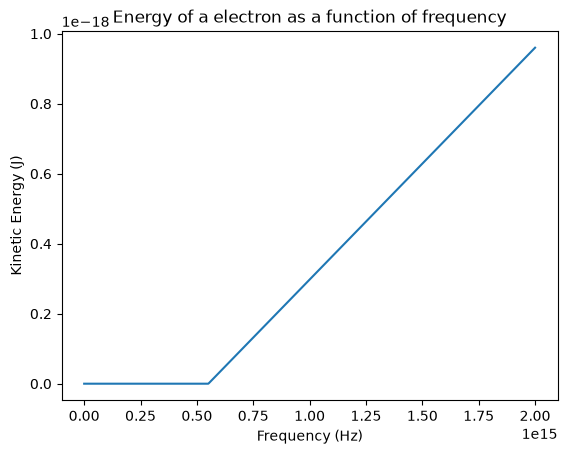
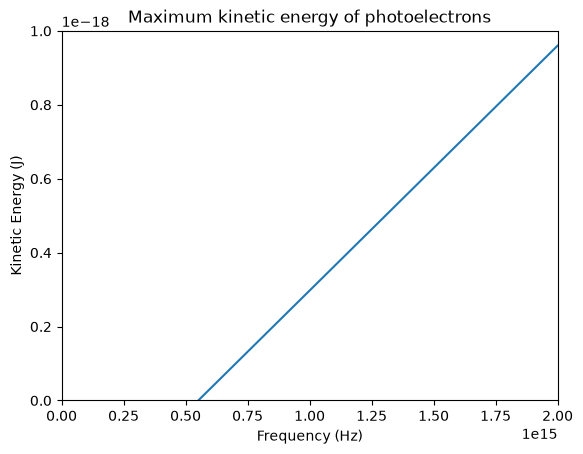
Update 01-02

diff --git a/pages/01-02-photoelectric-effect.md b/pages/01-02-photoelectric-effect.md
@@ -4,14 +4,14 @@
 
 ## 광전 효과
 
-1887년에 독일의 물리학자 헤르츠는 전자기파에 대한 실험을 하던 중, 전극 표면에 자외선을 비추면 전극 사이에 불꽃이 더 잘 발생한다는 것을 발견했습니다. 이 현상을 **광전 효과(photoelectric effect)**라고 하는데요, 이 때에는 왜 이런 일이 일어나는지는 아무도 몰랐습니다. 시간이 흐르고 1897년에 영국의 물리학자 톰슨이 진공관 실험을 통해 음의 전하를 띠는 '전자'라는 입자가 존재한다는 것을 밝히자, 사람들은 이것이 전극을 이루는 금속 표면에서 전자가 튀어나왔기 때문이라는 것을 알게 됩니다.  
+1887년에 독일의 물리학자 헤르츠는 전자기파에 대한 실험을 하던 중, 전극 표면에 자외선을 비추면 전극 사이에 불꽃이 더 잘 발생한다는 것을 발견했습니다. 이 현상을 **광전 효과(photoelectric effect)**라고 하는데요, 이때는 왜 이런 일이 일어나는지는 아무도 몰랐습니다. 시간이 흐르고 1897년에 영국의 물리학자 톰슨이 진공관 실험을 통해 음의 전하를 띠는 '전자'라는 입자가 존재한다는 것을 밝히자, 사람들은 이것이 전극을 이루는 금속 표면에서 전자가 튀어나왔기 때문이라는 것을 알게 됩니다.  
 
 ![광전 효과 실험](/assets/image-20.png)  
 [출처: https://www.physics.utoronto.ca/~phy224_324/experiments/photo-electric-effect/THE-PHOTO-ELECTRIC-EFFECT.pdf]  
 
-1900년 레나르트라는 물리학자는 실험 장비를 만들어 광전 효과에 대해 연구하고 있었습니다. 이 장비는 금속 판 두 개를 마주보게 놓고 일정한 전압을 걸어 전자의 운동을 방해하여 충분한 운동 에너지를 가진 전자만이 반대쪽 판에 도착할 수 있도록 되어있습니다.  
-그런데 무언가 이상한 것을 발견했습니다. 고전물리학에 따르면 빛은 파동이니까 진폭이 커질수록 세기가 강해져야 하는데 아무리 빛을 세게 쪼여도 **정지 전압(stopping potential)**이 증가하지 않았던 것입니다. 더 센 빛을 쪼이면 전류가 더 많이 흐르긴 했지만 정지 전압이 더 높아지지는 않았습니다. 그러니까 전자가 더 많이 튀어나오지만 튀어나온 전자의 운동 에너지는 똑같다는 뜻입니다.  
-그리고 빛이 파동이라면 금속 표면의 전자를 흔들면서 떼어내야 하기 때문에 어느 정도의 지연 시간이 있어야 할텐데 놀랍게도 빛을 쪼여주자마자 전자가 튀어나왔습니다.
+1900년 레나르트라는 물리학자는 실험 장비를 만들어 광전 효과에 대해 연구하고 있었습니다. 이 장비는 금속 판 두 개를 마주보게 놓고 일정한 전압을 걸어 전자의 운동을 방해하여 충분한 운동 에너지를 가진 전자만이 반대쪽 판에 도착할 수 있도록 되어 있습니다.  
+그런데 무언가 이상한 것을 발견했습니다. 고전물리학에 따르면 빛은 파동이니까 진폭이 커질수록 세기가 강해져야 하는데 아무리 빛을 세게 쪼여도 **정지 전압(stopping potential)**이 증가하지 않았던 것입니다. 더 센 빛을 쪼이면 전류가 더 많이 흐르긴 했지만 정지 전압이 더 높아지지는 않았습니다. 그러니까 전자가 더 많이 튀어나오지만 튀어나온 전자의 최대 운동 에너지는 똑같다는 뜻입니다.  
+그리고 빛이 파동이라면 금속 표면의 전자를 흔들면서 떼어내야 하기 때문에 어느 정도의 지연 시간이 있어야 할텐데 놀랍게도 빛을 비추자마자 전자가 튀어나왔습니다. 고전적인 파동 개념을 이용한 매우 단순한 추정을 해봅시다. 빛의 에너지가 공간에 균일하게 퍼지고, 원자 하나가 자신의 단면적에 들어오는 에너지를 계속 축적한다고 가정하겠습니다.
 ```python
 import numpy as np
 from scipy.constants import e
@@ -22,12 +22,12 @@ a_atom = np.pi * (1e-10) ** 2  # 원자 하나의 단면적
 phi = 2.28 * e  # 소듐 일함수
 
 t_wait = phi / (I * a_atom)
-print(f"파동설의 예측 = {t_wait:.0f} 초")
-print(f"실제 실험    < 1e-9 초")
+print(f"고전 모형의 예측 = {t_wait:.0f} 초")
+print(f"실제 실험       < 1e-9 초")
 ```
 ```
-파동설의 예측 = 146 초
-실제 실험    < 1e-9 초
+고전 모형의 예측 = 146 초
+실제 실험       < 1e-9 초
 ```
 
 다시 한 번 고전물리학이 설명할 수 없는 현상이 벌어졌습니다.
@@ -35,32 +35,35 @@ print(f"실제 실험    < 1e-9 초")
 
 ## 아인슈타인의 등장
 
-여기서 그 유명한 아인슈타인 선생님이 등장합니다. 아인슈타인은 우리가 1.1.에서 봤던 플랑크의 양자 가설을 가져와 이 현상을 설명하는 데에 사용합니다. $E=nh\nu$ 기억하시죠? 아인슈타인은 이 가설을 더 발전시켜 빛이 사실 $E=h\nu$의 에너지를 가지는 아주 작은 덩어리로 이루어져 있다고 생각하였습니다. 지금 우리가 **광자(photon)**라고 부르는 것이죠. 에너지는 보존되어야 하니까 튀어나온 전자의 운동 에너지와 금속에서 전자를 떼어내는 데 필요한 에너지를 합하면 쪼여준 빛의 에너지와 같다고 할 수 있겠네요. 식으로 쓰면 다음과 같습니다.
+여기서 그 유명한 아인슈타인 선생님이 등장합니다. 아인슈타인은 우리가 1.1.에서 봤던 플랑크의 양자 가설을 가져와 이 현상을 설명하는 데에 사용합니다. $E=nh\nu$ 기억하시죠? 아인슈타인은 이 가설을 더 발전시켜 빛이 사실 $E=h\nu$의 에너지를 가지는 아주 작은 덩어리로 이루어져 있다고 생각하였습니다. 지금 우리가 **광자(photon)**라고 부르는 것이죠. 에너지는 보존되어야 하니까 튀어나온 전자의 최대 운동 에너지와 금속에서 전자를 떼어내는 데 필요한 에너지를 합하면 쪼여준 빛의 에너지와 같다고 할 수 있겠네요. 식으로 쓰면 다음과 같습니다.
 
 $$
-(\text{전자의 운동 에너지}) = \frac{1}{2}mv^2 = h\nu - \phi
+(\text{전자의 최대 운동 에너지}) = \frac{1}{2}mv_{max}^2 = h\nu - \phi
 $$
 
-여기서 $\phi$는 금속에서 전자를 떼어내는 데 필요한 에너지이고, 일함수(work function)이라고 부릅니다. 전자의 운동 에너지가 음수가 될 수는 없으니 빛(광자)의 에너지는 $\phi$ 이상이 되어야겠군요. 다시 말하면, 빛의 진동수가 $\phi/h$보다 크지 않으면 전자가 튀어나오지 않습니다. 이 값을 **문턱 진동수(threshold frequency)**라고 부르고 $\nu_0$라고 씁니다. 식을 다시 쓰면 이렇게 되겠네요.
+여기서 $\phi$는 금속에서 전자를 떼어내는 데 필요한 에너지이고, 일함수(work function)이라고 부릅니다. 전자의 운동 에너지가 음수가 될 수는 없으니 빛(광자)의 에너지는 $\phi$ 이상이 되어야겠군요. 다시 말하면, 빛의 진동수가 $\phi/h$보다 작으면 전자가 튀어나오지 않습니다. 이 값을 **문턱 진동수(threshold frequency)**라고 부르고 $\nu_0$라고 씁니다. 식을 다시 쓰면 이렇게 되겠네요.
 
 $$
-(\text{전자의 운동 에너지}) = h\nu - h\nu_0
+(\text{전자의 최대 운동 에너지}) = h\nu - h\nu_0
 $$
 
-그림으로 그려보겠습니다. 소듐 금속의 경우에는 문턱 진동수가 $5.51 \times 10^{14}$ Hz로 알려져 있습니다.
+진동수가 같은 빛의 세기를 높인다는 것은 광자 하나의 에너지를 높이는 것이 아니라, 단위 시간에 도달하는 광자의 수를 늘린다는 뜻입니다. 따라서 더 많은 전자가 방출되어 전류는 커지지만, 광자 하나가 전달하는 에너지 $h\nu$는 그대로이므로 최대 운동에너지는 변하지 않습니다.  
+위 식을 그림으로 그려보겠습니다. 소듐 금속의 경우에는 문턱 진동수가 $5.51 \times 10^{14}$ Hz로 알려져 있습니다.
 ```python
 import numpy as np
 import matplotlib.pyplot as plt
 from scipy.constants import h
 
 nu = np.linspace(0, 2e15, 1000)
-ke = h * nu - h * (5.51e14)
-ke[ke < 0] = 0
+nu0 = 5.51e14
+ke = np.where(nu >= nu0, h * (nu - nu0), np.nan)
 
 plt.plot(nu, ke)
-plt.title("Energy of a electron as a function of frequency")
+plt.title("Maximum kinetic energy of photoelectrons")
 plt.xlabel("Frequency (Hz)")
 plt.ylabel("Kinetic Energy (J)")
+plt.xlim(0, 2e15)
+plt.ylim(0, 1e-18)
 plt.show()
 ```
 ![광전 효과](/assets/image-21.png)
@@ -72,7 +75,7 @@ plt.show()
 
 ## 빛, 너는 뭐냐?
 
-고전물리학에서는 빛이 파동이라고 생각했습니다. 1801년 영의 이중슬릿 실험에서 빛은 명백하게 간섭무늬를 만들었고, 간섭은 파동만의 특징이니까요. 맥스웰은 빛이 전자기파라는 것까지 밝혀내었습니다.  
+고전물리학에서는 빛이 파동이라고 생각했습니다. 1801년 영의 이중슬릿 실험에서 빛은 명백하게 간섭무늬를 만들었고, 간섭은 파동의 대표적인 특징이라고 생각했으니까요. 또한 맥스웰의 이론은 빛이 전자기파임을 보여주었습니다.  
 그런데 광전효과는 빛이 입자라고 생각해야 설명할 수 있었습니다. 그러면 대체 빛은 파동인가요 입자인가요?  
 정답은 둘 다 맞고 둘 다 아니다 입니다. *이게 뭔 소리람?* 그러니까 빛은 이중슬릿 실험에서는 파동처럼 간섭 현상을 일으키고, 금속에 비추면 입자처럼 전자를 하나씩 떼어냅니다. 이것을 빛의 **이중성(wave-particle duality)**라고 합니다.  
 이렇게 설명하면 빛이 어떨 때는 파동이고 어떨 때는 입자다 라고 생각하실 수도 있는데 정확히 말하면 빛은 둘 다 아니지만 어떤 실험을 하느냐에 따라 파동으로 설명하는 편이 잘 맞는 실험이 있고 입자로 설명하는 편이 잘 맞는 실험이 있는 것입니다.
